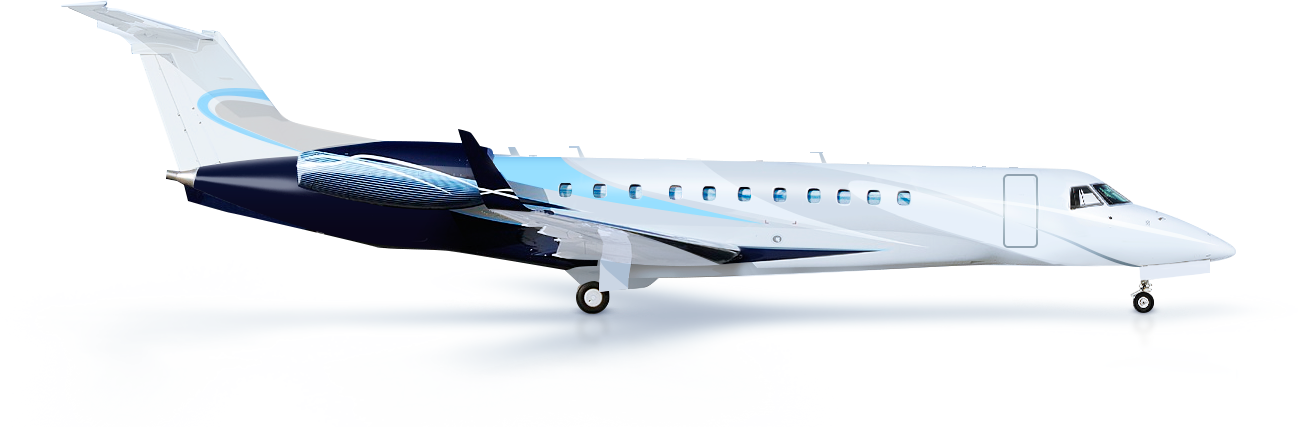
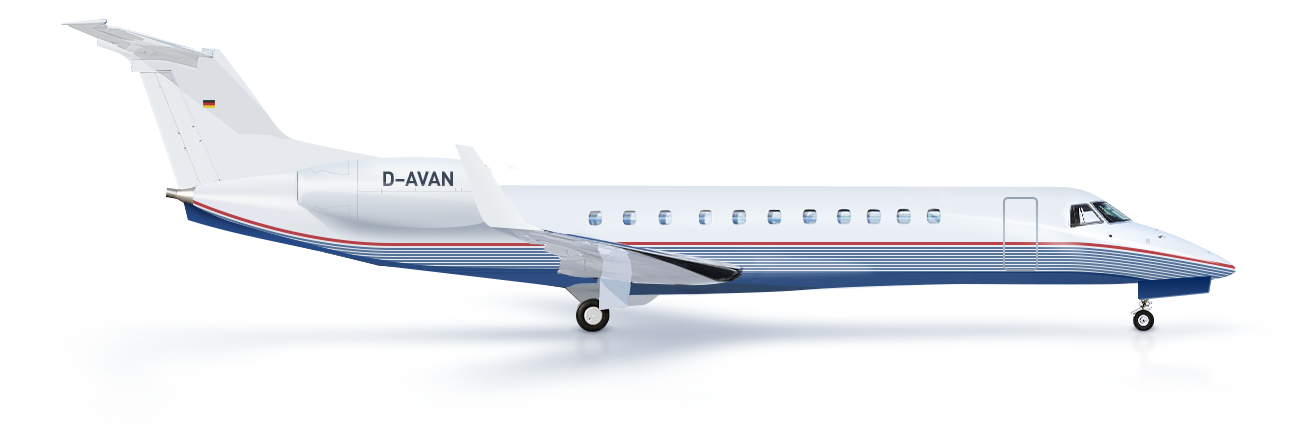
ad@aic.ru
замена картинок самолетов

Changed region(s): [[0.1233, 0.1522, 0.9553, 0.8829], [0.0308, 0.0, 0.1849, 0.1827]]

diff --git a/js/script.js b/js/script.js
@@ -80,16 +80,14 @@ $(function() {
 		});
 	}
 
-	$('.slick-plain').slick({
-		infinite: true,
-		slidesToShow: 1,
-		slidesToScroll: 1,
-		dots: true
-	})
-
-	// if($('#air_btn-toogle').length){
-	// 	$('#air_btn-toogle').airPlaneSlider();
-	// }
+	if($('.slick-plain').length){
+		$('.slick-plain').slick({
+			infinite: true,
+			slidesToShow: 1,
+			slidesToScroll: 1,
+			dots: true
+		})
+	}
 	
 
 });

diff --git a/private_and_cahrter.html b/private_and_cahrter.html
@@ -84,7 +84,7 @@
 		<section class="collage second js-animate_to">
 			<div class="about_text center">
 				<div class="about_text-wrap">
-					<h2>Aircrafts</h2>
+					<h2>Aircraft</h2>
 					<p>Avangard Aviation is the result of three successful companies coming together to create a singular<br/> organization which is well-placed to all of your aviation needs</p>
 				</div>
 			</div>

diff --git a/css/style.css b/css/style.css
@@ -1167,6 +1167,7 @@ BUTTON.btn {
 	height: 120px;
 	margin: -100px;
 	margin-left: -25%;
+	z-index: 10;
 }
 .collage .collage_img{
 	height: 100%;
